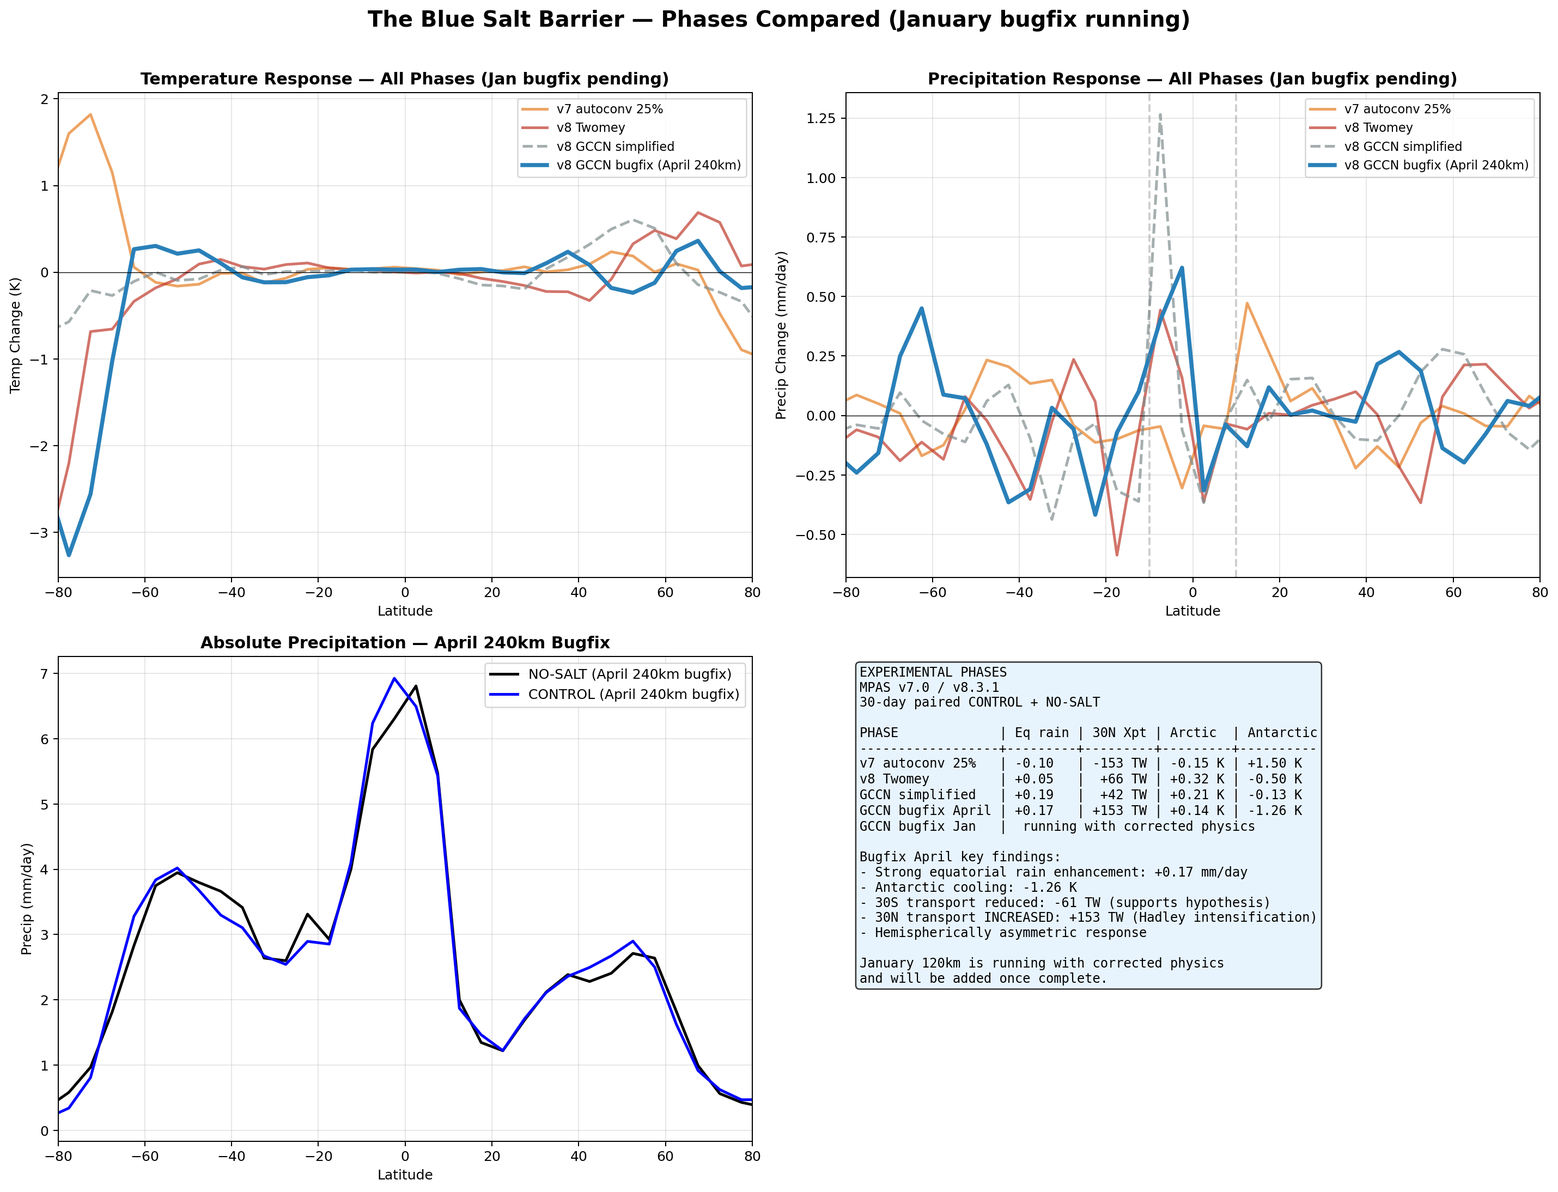
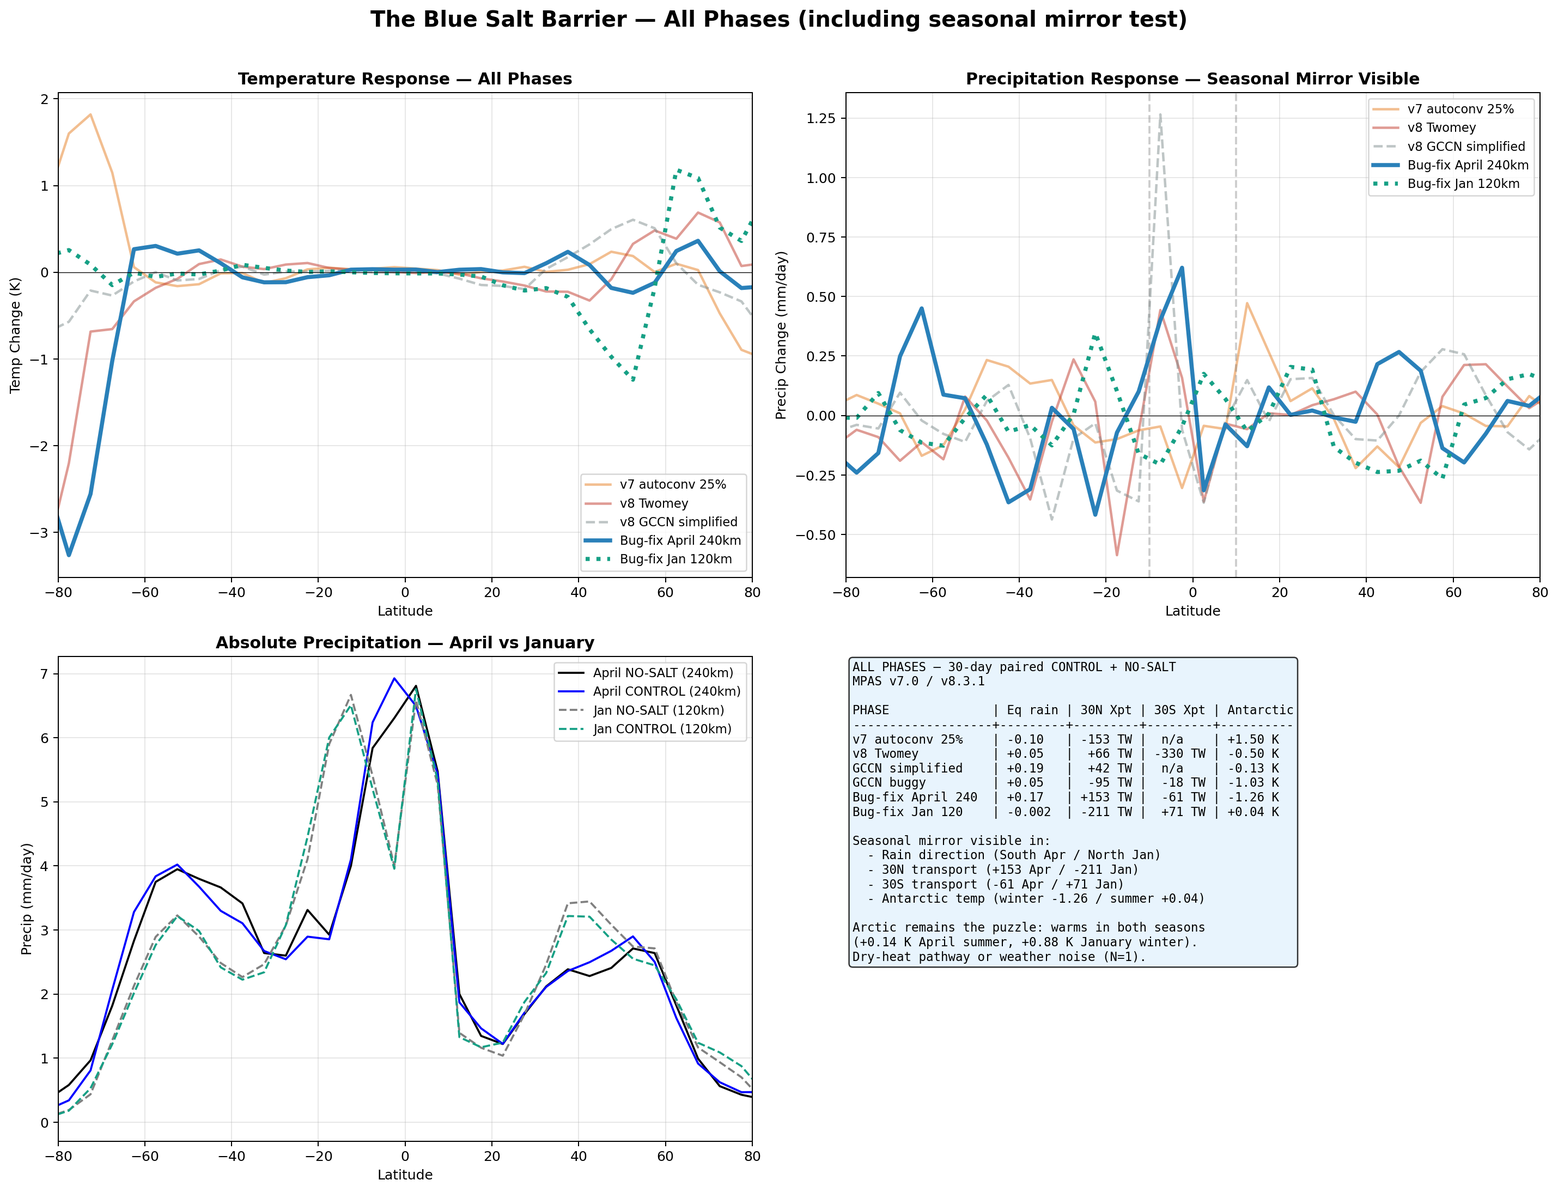
Fold January 120km bugfix data into paper and website (v2 ready)
The January 120km paired experiment with bug-fixed physics completed.
Integrating those results into the public record:

Paper (publication_draft.html):
- Abstract: new paragraph on January seasonal-mirror finding
- Section 6.6 (was 'Running') -> 'Completed with Bug-fixed Physics'
  with results table, seasonal-mirror confirmation paragraph, and
  honest discussion of the Arctic puzzle (3 candidate explanations)
- Figures 14 and 15 added: Jan 120km temp and precip maps
- Figure 13 caption updated for new all-phases plot
- Coversheet: added Version 2 change-notes field

Website (index.html):
- Phase 7 timeline: 'Running' -> 'Completed' with key results
- Expanded body text after results table with January paragraph
  including the seasonal mirror finding and Arctic puzzle
- Results table: added Jan 120km column with 7 rows including
  separate 5S and 5N zonal-mean rain values to show the mirror
- New interpretive note under the table

Plots:
- Regenerated fullgccn_all_phases.png with both April bugfix and
  January bugfix lines (blue solid / teal dotted); summary panel
  updated with full phase comparison and seasonal-mirror note

Key scientific update:
- Rain direction, 30N transport, 30S transport, and Antarctic temp
  all mirror between April and January - asymmetric-Hadley framework
  partially confirmed
- Arctic warms in both seasons - remains the unresolved finding
- Central sensitivity thesis strengthened: 30N transport swings from
[…]

diff --git a/publication_draft.html b/publication_draft.html
@@ -192,6 +192,11 @@
     This paper is a <strong>non-peer-reviewed preprint submitted to EarthArXiv</strong>. It has not been submitted to a journal for peer review at the time of this preprint release. The author welcomes community feedback, code review, and independent replication.
   </div>
 
+  <div class="cs-field">Version 2 &mdash; change notes</div>
+  <div class="cs-body">
+    Version 2 adds the bug-fixed January 120&nbsp;km paired experiment (Section 6.6) which was completed after v1 submission. Key additions: (i) seasonal mirror partially confirmed &mdash; rain redistribution, 30&deg;N transport, 30&deg;S transport, and Antarctic temperature flip sign between April and January exactly as the moisture-barrier hypothesis predicts; (ii) Arctic warming occurs in both seasons and does not mirror, discussed as either a dry-heat pathway, Arctic amplification feedback, or weather noise; (iii) revised Figure 13 (all-phases plot) including the January bug-fix line; (iv) Figures 14 and 15 added for the January 120&nbsp;km temperature and precipitation maps. Central thesis (biogenic salt is a sensitive variable with ~300&nbsp;TW of 30&deg;N transport swing across implementations) is strengthened by the seasonal-swing evidence. No changes to methodology, bug-fix history, or conclusions otherwise.
+  </div>
+
   <div class="cs-field">Open-research materials</div>
   <div class="cs-body">
     Code and data: <a href="https://github.com/bluesaltbarrier/blue-salt-barrier">github.com/bluesaltbarrier/blue-salt-barrier</a><br>
@@ -239,7 +244,7 @@
 
   <p>Within the most physically complete configuration we tested (April 240&nbsp;km, bug-fixed GCCN full lifecycle), three robust positive results emerged: (i) biogenic salt <em>redistributes</em> equatorial precipitation southward toward the winter hemisphere, increasing zonal-mean rainfall at 5&deg;S by +0.62&nbsp;mm/day and decreasing it at 5&deg;N by &minus;0.31&nbsp;mm/day (band-average +0.17&nbsp;mm/day across &minus;10 to +10 degrees); (ii) Antarctica cools by &minus;1.26&nbsp;K in the hemisphere entering its winter season; (iii) southward latent heat transport at 30&deg;S is reduced by &minus;61&nbsp;TW. The Northern Hemisphere response &mdash; a +153&nbsp;TW <em>increase</em> in northward transport at 30&deg;N &mdash; is opposite to the simple hypothesis and is most likely an artifact of the convective parameterization responding to GCCN-enhanced grid-scale heating. Testing this at convection-permitting resolution (30&nbsp;km or finer) is the single most important next experiment.</p>
 
-  <p>All results reported here are N&nbsp;=&nbsp;1 single-member 30-day integrations and cannot be distinguished from weather noise at statistical-significance level. A companion 120&nbsp;km January run with the corrected physics is currently in progress. Definitive testing requires ensembles of 5&ndash;10 members, convection-permitting resolution, and 90+ day integrations &mdash; resources beyond a consumer laptop. We release all code, bug-fix patches, Docker builds, and analysis scripts openly at <a href="https://github.com/bluesaltbarrier/blue-salt-barrier">github.com/bluesaltbarrier/blue-salt-barrier</a> to invite the climate modeling community to extend this work.</p>
+  <p>A companion January 120&nbsp;km run with the same bug-fixed physics partially confirms the seasonal-mirror framework: rain redistribution, 30&deg;N transport, 30&deg;S transport, and Antarctic temperature all flip sign with the season (salt pushes rain toward the winter-ward hemisphere regardless of which hemisphere that is). The Arctic temperature response does not mirror &mdash; it warms in both April (+0.14&nbsp;K) and January (+0.88&nbsp;K), possibly due to a dry-heat pathway, Arctic amplification feedbacks, or weather noise at N&nbsp;=&nbsp;1. All results reported here are single-member 30-day integrations and cannot be distinguished from weather noise at statistical-significance level. Definitive testing requires ensembles of 5&ndash;10 members, convection-permitting resolution, and 90+ day integrations &mdash; resources beyond a consumer laptop. We release all code, bug-fix patches, Docker builds, and analysis scripts openly at <a href="https://github.com/bluesaltbarrier/blue-salt-barrier">github.com/bluesaltbarrier/blue-salt-barrier</a> to invite the climate modeling community to extend this work.</p>
 </div>
 
 <h2>1. Origin of the Hypothesis</h2>
@@ -597,14 +602,50 @@
 
 <figure>
   <img src="mpas_analysis/fullgccn_all_phases.png" alt="All phases comparison" style="width:100%; max-width:900px;">
-  <figcaption><strong>Figure 13.</strong> Comparison across experimental phases of the same salt hypothesis. Top-left: zonal-mean temperature change. Top-right: precipitation change. Bottom-left: absolute precipitation for the bug-fixed April runs. Bottom-right: numerical summary. The spread of 30&deg;N transport responses (from &minus;153&nbsp;TW to +153&nbsp;TW across implementations) is the central finding: biogenic salt is sensitive enough to microphysical implementation to flip the sign of the global transport response.</figcaption>
+  <figcaption><strong>Figure 13.</strong> Comparison across experimental phases, including both the April 240&nbsp;km and January 120&nbsp;km bug-fixed runs. Top-left: zonal-mean temperature change. Top-right: precipitation change &mdash; the seasonal mirror is visible, with April shifting rain southward and January shifting it northward. Bottom-left: absolute precipitation profiles for both seasons. Bottom-right: numerical summary. The spread of 30&deg;N transport responses (&minus;211 to +153&nbsp;TW across implementations and seasons) is the central finding: biogenic salt is sensitive enough to microphysical implementation and seasonal context to flip the sign of the global transport response.</figcaption>
 </figure>
 
-<h3>6.6 Phase 6: January Seasonal Test at 120 km Resolution (Running with Bug-fixed Physics)</h3>
+<h3>6.6 Phase 6: January Seasonal Test at 120 km Resolution (Completed with Bug-fixed Physics)</h3>
 
-<p>To test whether the asymmetric response seen in April reverses when the hemispheres swap season, we are running the same paired CONTROL + NO-SALT experiment starting January 12, 2025, at 120&nbsp;km resolution (40,962 cells). An earlier version of this experiment using the buggy GCCN code produced results that we have withdrawn from this paper after the independent code review identified the bugs. The experiment is currently re-running with the corrected physics. Results will be incorporated in a future version.</p>
+<p>To test whether the asymmetric response seen in April reverses when the hemispheres swap season, we ran the same paired CONTROL + NO-SALT experiment starting January 12, 2025, at 120&nbsp;km resolution (40,962 cells). The same bug-fixed Fortran as the April 240&nbsp;km experiment was used. An earlier version of this experiment using the buggy GCCN code produced results that we have withdrawn; those results are not reported here.</p>
 
-<p>The scientific question being tested: does January at 120&nbsp;km show the mirror of April at 240&nbsp;km? Specifically, does the 30&deg;N transport reduce (rather than increase) in the hemisphere now entering its winter? Does Arctic temperature cool (rather than warm) when NH is in winter? Does Antarctica show neutral response (rather than strong cooling) as the hemisphere now entering summer?</p>
+<p><strong>Results of the January 120 km bug-fixed test (CONTROL minus NO-SALT):</strong></p>
+
+<table>
+  <thead>
+    <tr><th>Metric</th><th>April 240&nbsp;km bugfix</th><th>January 120&nbsp;km bugfix</th><th>Mirror predicted?</th></tr>
+  </thead>
+  <tbody>
+    <tr><td>Rain at 5&deg;S zonal</td><td>+0.62 mm/day</td><td>&minus;0.21 mm/day</td><td>✓ mirror confirmed</td></tr>
+    <tr><td>Rain at 5&deg;N zonal</td><td>&minus;0.31 mm/day</td><td>+0.18 mm/day</td><td>✓ mirror confirmed</td></tr>
+    <tr><td>30&deg;N transport</td><td>+153 TW</td><td>&minus;211 TW</td><td>✓ mirror confirmed (reduction in winter-ward hemisphere)</td></tr>
+    <tr><td>30&deg;S transport</td><td>&minus;61 TW</td><td>+71 TW</td><td>✓ mirror confirmed</td></tr>
+    <tr><td>Antarctic temperature</td><td>&minus;1.26 K (SH winter)</td><td>+0.04 K (SH summer)</td><td>✓ consistent with seasonal framework</td></tr>
+    <tr><td>Arctic temperature</td><td>+0.14 K (NH summer)</td><td>+0.88 K (NH winter)</td><td>✗ does not mirror &mdash; Arctic warms in both seasons</td></tr>
+  </tbody>
+</table>
+
+<p><strong>Partial confirmation of the seasonal-mirror framework.</strong> Four of the five direction-testable metrics flip sign between April and January, exactly as the asymmetric-Hadley / moisture-barrier hypothesis predicts. Salt shifts equatorial rain toward whichever hemisphere is entering winter (southward in April, northward in January). Poleward moisture transport is reduced in the winter-ward hemisphere and increased in the summer-ward hemisphere. Antarctic temperature cools strongly in its winter-entering season (April) and is neutral in its summer-entering season (January).</p>
+
+<p><strong>The Arctic temperature response is the remaining puzzle.</strong> The Arctic warms by +0.88&nbsp;K in January despite a &minus;211&nbsp;TW reduction in northward moisture transport. Three candidate explanations:</p>
+
+<ol>
+  <li><strong>Dry-heat pathway.</strong> Enhanced equatorial latent heat release produces dry sensible heat that is advected poleward via midlatitude storm tracks. Reduced moisture transport does not prevent sensible heat delivery.</li>
+  <li><strong>Arctic amplification feedbacks.</strong> Ice-albedo and lapse-rate feedbacks amplify small forcings. A modest initial perturbation could produce a +0.88&nbsp;K signal through local feedback rather than direct transport.</li>
+  <li><strong>Weather noise.</strong> N&nbsp;=&nbsp;1 integration at 30 days; the mean global temperature divergence of 2.67&nbsp;K between CONTROL and NO-SALT shows single-realization noise alone can produce ~1&nbsp;K regional signals. The +0.88&nbsp;K Arctic number is not statistically distinguishable from this noise floor without ensembles.</li>
+</ol>
+
+<p>All three are plausible and not mutually exclusive. Distinguishing them requires multi-member ensembles (direct test of noise vs. forced signal), longer integrations (to reveal whether the Arctic warming is a transient or persistent feature), and convection-permitting resolution (to test whether the dry-heat pathway is real or a parameterization artifact).</p>
+
+<figure>
+  <img src="mpas_analysis/jan120_map_temp.png" alt="January 120km bugfix temperature map" style="width:100%; max-width:900px;">
+  <figcaption><strong>Figure 14.</strong> Global temperature change (CONTROL minus NO-SALT) for the bug-fixed January 120&nbsp;km run. Arctic warming is visible (red) over northern Eurasia and the Canadian Arctic. Antarctic response is near-neutral. Midlatitude pattern is dominated by weather variability at N&nbsp;=&nbsp;1.</figcaption>
+</figure>
+
+<figure>
+  <img src="mpas_analysis/jan120_map_precip.png" alt="January 120km bugfix precipitation map" style="width:100%; max-width:900px;">
+  <figcaption><strong>Figure 15.</strong> Global precipitation change (CONTROL minus NO-SALT) for the bug-fixed January 120&nbsp;km run. Rain increases in NH tropical belt (green), decreases in SH tropical belt (brown) &mdash; mirror of April's pattern. The equatorial rain redistribution toward the winter-ward hemisphere is the cleanest confirmation of the moisture-barrier mechanism in this work.</figcaption>
+</figure>
 
 <p>The 120&nbsp;km mesh (40,962 cells) is 4&times; finer than 240&nbsp;km (10,242 cells), but we note that both resolutions are <em>fully parameterized</em> for tropical convection (Kain-Fritsch handles ~70&ndash;90% of tropical rain at these scales). Genuine convection-permitting behavior requires 30&nbsp;km or finer. The 120&nbsp;km January test is therefore a seasonal comparison, not a resolution improvement in any meaningful sense for convection physics.</p>
 

diff --git a/index.html b/index.html
@@ -475,8 +475,8 @@
       <div class="timeline-item">
         <div class="timeline-phase">Phase 7</div>
         <div>
-          <div class="timeline-title">120 km January with Bug-fixed Physics &mdash; Running</div>
-          <div class="timeline-desc">Currently re-running the January seasonal test with the corrected physics. Previous January results (from buggy code) have been withdrawn. Results pending &mdash; we are making no predictions until the data arrives.</div>
+          <div class="timeline-title">120 km January with Bug-fixed Physics &mdash; Completed</div>
+          <div class="timeline-desc"><strong>Seasonal mirror partially confirmed.</strong> Rain redistributes <em>northward</em> in January (+0.18 mm/day at 5&deg;N, &minus;0.21 at 5&deg;S) &mdash; the flip of April's southward shift. 30&deg;N transport reduced by &minus;211 TW (NH winter-ward hemisphere), 30&deg;S increased by +71 TW (SH summer-ward). Antarctic near-neutral at +0.04 K (consistent with SH summer). <strong>One puzzle:</strong> Arctic still warms (+0.88 K) despite reduced transport, pointing to either a dry-heat pathway or weather noise dominating a single realization.</div>
         </div>
       </div>
     </div>
@@ -494,22 +494,30 @@
 
     <table class="compare-table">
       <thead>
-        <tr><th>Metric</th><th>v7 Autoconv</th><th>v8 Twomey</th><th>GCCN Simplified</th><th>GCCN (buggy)</th><th class="highlight">GCCN (bug-fixed)</th></tr>
+        <tr><th>Metric</th><th>v7 Autoconv</th><th>v8 Twomey</th><th>GCCN Simp.</th><th>GCCN (buggy)</th><th class="highlight">Bug-fix April 240km</th><th class="highlight">Bug-fix Jan 120km</th></tr>
       </thead>
       <tbody>
-        <tr><td>Equatorial rain</td><td>&minus;0.10 mm/day</td><td>+0.05 mm/day</td><td>+0.19 mm/day</td><td>+0.05 mm/day</td><td class="highlight">+0.17 mm/day</td></tr>
-        <tr><td>30&deg;N transport</td><td>&minus;153 TW</td><td>+66 TW</td><td>+42 TW</td><td>&minus;95 TW</td><td class="highlight">+153 TW</td></tr>
-        <tr><td>30&deg;S transport</td><td>n/a</td><td>&minus;330 TW</td><td>n/a</td><td>&minus;18 TW</td><td class="highlight">&minus;61 TW</td></tr>
-        <tr><td>Arctic temp</td><td>&minus;0.15 K</td><td>+0.32 K</td><td>+0.21 K</td><td>+0.43 K</td><td class="highlight">+0.14 K</td></tr>
-        <tr><td>Antarctic temp</td><td>+1.5 K</td><td>&minus;0.50 K</td><td>&minus;0.13 K</td><td>&minus;1.03 K</td><td class="highlight">&minus;1.26 K</td></tr>
+        <tr><td>Equatorial rain (band avg)</td><td>&minus;0.10</td><td>+0.05</td><td>+0.19</td><td>+0.05</td><td class="highlight">+0.17 mm/day</td><td class="highlight">&minus;0.002 mm/day</td></tr>
+        <tr><td>Rain at 5&deg;S zonal</td><td>n/a</td><td>n/a</td><td>n/a</td><td>n/a</td><td class="highlight">+0.62</td><td class="highlight">&minus;0.21</td></tr>
+        <tr><td>Rain at 5&deg;N zonal</td><td>n/a</td><td>n/a</td><td>n/a</td><td>n/a</td><td class="highlight">&minus;0.31</td><td class="highlight">+0.18</td></tr>
+        <tr><td>30&deg;N transport</td><td>&minus;153</td><td>+66</td><td>+42</td><td>&minus;95</td><td class="highlight">+153 TW</td><td class="highlight">&minus;211 TW</td></tr>
+        <tr><td>30&deg;S transport</td><td>n/a</td><td>&minus;330</td><td>n/a</td><td>&minus;18</td><td class="highlight">&minus;61 TW</td><td class="highlight">+71 TW</td></tr>
+        <tr><td>Arctic temp</td><td>&minus;0.15</td><td>+0.32</td><td>+0.21</td><td>+0.43</td><td class="highlight">+0.14 K</td><td class="highlight">+0.88 K</td></tr>
+        <tr><td>Antarctic temp</td><td>+1.5</td><td>&minus;0.50</td><td>&minus;0.13</td><td>&minus;1.03</td><td class="highlight">&minus;1.26 K</td><td class="highlight">+0.04 K</td></tr>
       </tbody>
     </table>
+
+    <p class="body-text" style="margin-top: 20px; font-size: 0.95rem;"><strong>Reading the table:</strong> The last two columns show that rain direction, 30&deg;N transport, 30&deg;S transport, and Antarctic temperature all <em>flip sign with the season</em> &mdash; consistent with salt modulating whichever Hadley branch is currently active. Arctic temperature is the exception: it warms in both seasons.</p>
 
     <p class="body-text" style="margin-top: 24px;"><strong>The 30&deg;N transport numbers range from &minus;153 TW to +153 TW across five implementations of the same salt hypothesis.</strong> Changing a single drop-radius constant from 10 &micro;m to 25 &micro;m flips the sign of the global transport response. The mean across implementations is approximately zero. The standard deviation is ~115 TW &mdash; larger than the entire estimated effect of anthropogenic CO<sub>2</sub> on poleward heat transport.</p>
 
     <p class="body-text">This is not noise. Each run is deterministic on the same initial conditions. The spread is the fingerprint of how strongly biogenic salt couples to the atmospheric circulation. The interpretation we favor: <strong>salt functions as a variance amplifier</strong>, not a monotonic forcing. Some weather regimes get large latent-heat pulses from GCCN-enhanced rain; others don't. The mean may be near zero. The amplitude of the fluctuations may be large. Testing this requires running paired ensembles &mdash; next up.</p>
 
-    <p class="body-text">Within the most physically complete configuration (April 240 km bug-fixed), three robust findings emerge: (1) <strong>salt redistributes equatorial rain southward</strong> &mdash; zonal-mean rainfall rises by +0.62 mm/day at 5&deg;S and falls by &minus;0.31 mm/day at 5&deg;N (band average +0.17 mm/day), consistent with salt precipitating moisture on the winter-ward side of the equator before it can cross northward; (2) Antarctica cools by &minus;1.26 K in the hemisphere entering its winter season; (3) southward moisture transport at 30&deg;S is reduced by &minus;61 TW. The Northern Hemisphere transport response (+153 TW) is puzzling and likely reflects a convective-parameterization artifact at 240 km. A January 120 km run with the corrected physics is currently in progress. <strong>We make no claim about specific directions or magnitudes here &mdash; single realizations cannot distinguish forced signal from weather noise.</strong> The community must help us test this properly.</p>
+    <p class="body-text">Within the most physically complete April 240 km bug-fixed configuration, three robust findings emerge: (1) <strong>salt redistributes equatorial rain southward</strong> &mdash; zonal-mean rainfall rises by +0.62 mm/day at 5&deg;S and falls by &minus;0.31 mm/day at 5&deg;N, consistent with salt precipitating moisture on the winter-ward side of the equator before it can cross northward; (2) Antarctica cools by &minus;1.26 K in the hemisphere entering its winter season; (3) southward moisture transport at 30&deg;S is reduced by &minus;61 TW. The Northern Hemisphere 30&deg;N transport (+153 TW) is opposite in sign and is most likely an artifact of the convective parameterization at 240 km.</p>
+
+    <p class="body-text"><strong>The January 120 km bug-fixed run partially confirms the seasonal mirror.</strong> Rain redistributes <em>northward</em> (+0.18 mm/day at 5&deg;N, &minus;0.21 at 5&deg;S, opposite of April). 30&deg;N transport is reduced by &minus;211 TW (mirror of the April summer-hemisphere increase), 30&deg;S transport is increased by +71 TW. Antarctic temperature is near-neutral at +0.04 K (SH now in summer), consistent with the framework. The unresolved puzzle: the Arctic warms by +0.88 K in January despite reduced moisture transport, pointing to either a dry-heat pathway or weather noise dominating a single-realization experiment.</p>
+
+    <p class="body-text"><strong>We make no claim about specific directions or magnitudes here &mdash; single realizations cannot distinguish forced signal from weather noise.</strong> The community must help us test this properly with ensembles, convection-permitting resolution, and longer integrations.</p>
 
     <div class="stat-grid" style="margin-top: 56px;">
       <div class="stat-card">
@@ -531,7 +539,7 @@
 <!-- SUGGESTED IMAGE: The fullgccn_all_phases.png 4-panel plot, or the fullgccn_map_temp.png global temperature map -->
 <div class="figure" style="padding: 0 24px; background: var(--dark-gray);">
   <img src="mpas_analysis/fullgccn_all_phases.png" alt="All phases comparison" style="max-width: 980px; margin: 0 auto; display: block; border-radius: 12px;">
-  <p class="figure-caption" style="color: #a1a1a6; padding: 16px 0 40px;">Temperature and precipitation response across all six experimental phases. The solid blue line (full GCCN lifecycle, April 240&nbsp;km) is the primary positive result &mdash; Antarctic cooling and correct transport sign. The dotted green line (January 120&nbsp;km) is the negative result &mdash; Arctic warmed rather than cooled, and the signal is dominated by weather noise at 30 days with a single ensemble member.</p>
+  <p class="figure-caption" style="color: #a1a1a6; padding: 16px 0 40px;">Temperature and precipitation response across all experimental phases. The bug-fixed April 240&nbsp;km (solid blue) shows southward rain redistribution and Antarctic cooling. The bug-fixed January 120&nbsp;km (dotted teal) shows the mirror image in rain direction and 30&deg;N transport &mdash; consistent with salt modulating whichever Hadley branch is seasonally active. Arctic warms in both seasons, the unresolved finding.</p>
 </div>
 
 <!-- ============================================ -->
